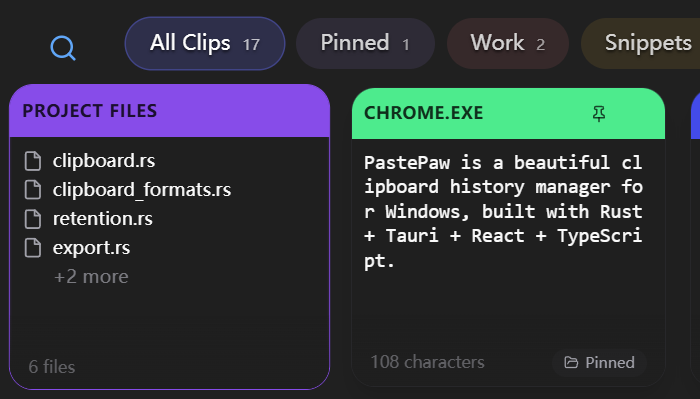
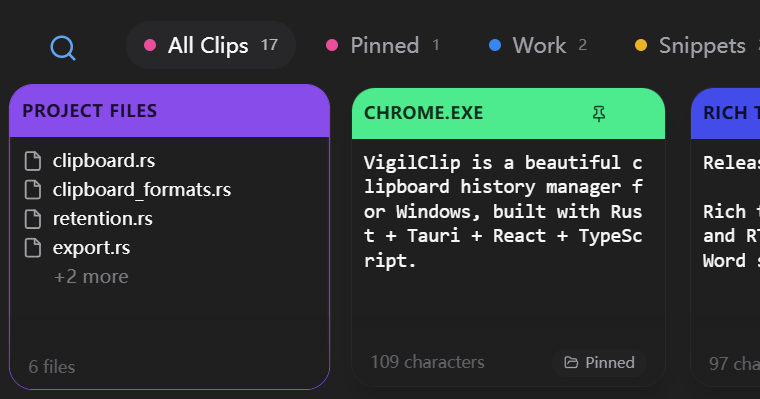
chore: release v2.0.0
The rename changes the identifier, the data directory, the repository and
the crate name, so this is a major version rather than a minor one.

The changelog folds in the note that updates are no longer installed by
the application, which had been sitting under Unreleased, and both
READMEs now describe what this build does rather than what v1.6.0 did.
The six feature screenshots were taken again from this build, so none of
them shows the old name or the old settings layout.

The demo data also gained folder colours, which is what the toolbar dots
in those screenshots show.

diff --git a/frontend/src/debug/demoData.ts b/frontend/src/debug/demoData.ts
@@ -43,7 +43,7 @@ export function generateDemoFolders(): FolderItem[] {
       id: DEMO_FOLDER_IDS.pinned,
       name: 'Pinned',
       icon: null,
-      color: null,
+      color: '#ec4899',
       is_system: true,
       item_count: 1,
     },
@@ -51,7 +51,7 @@ export function generateDemoFolders(): FolderItem[] {
       id: DEMO_FOLDER_IDS.work,
       name: 'Work',
       icon: null,
-      color: null,
+      color: '#3b82f6',
       is_system: false,
       item_count: 2,
     },
@@ -59,7 +59,7 @@ export function generateDemoFolders(): FolderItem[] {
       id: DEMO_FOLDER_IDS.snippets,
       name: 'Snippets',
       icon: null,
-      color: null,
+      color: '#eab308',
       is_system: false,
       item_count: 2,
     },
@@ -67,7 +67,7 @@ export function generateDemoFolders(): FolderItem[] {
       id: DEMO_FOLDER_IDS.design,
       name: 'Design',
       icon: null,
-      color: null,
+      color: '#8b5cf6',
       is_system: false,
       item_count: 1,
     },
@@ -117,12 +117,12 @@ export function generateDemoClips(): ClipboardItem[] {
       clip_type: 'text',
       // Rich text is stored as a text clip plus its HTML and RTF alternates, so the
       // card reads like any other text card. Pasting into Word keeps the formatting.
-      content: `Release notes for v1.6.0
+      content: `Release notes for v2.0.0
 
 Rich text keeps its HTML
 and RTF, so pasting into
 Word stays formatted.`,
-      preview: 'Release notes — VigilClip v1.6.0',
+      preview: 'Release notes — VigilClip v2.0.0',
       folder_id: null,
       created_at: ago(3),
       source_app: 'WINWORD.EXE',

diff --git a/CHANGELOG.md b/CHANGELOG.md
@@ -1,17 +1,45 @@
 # Changelog
 
-All notable changes to PastePaw will be documented in this file.
+All notable changes to VigilClip will be documented in this file.
 
-## Unreleased
+## v2.0.0
 
 ### Changed
-- **The application no longer installs its own updates.** The updater plugin pointed at the upstream repository and carried the upstream signing key, so a release published there would have been offered to this build and installed over it. PastePaw now reads the newest release of this repository, tells you when one exists, and opens the release page in your browser when you click the button.
+- **The application is called VigilClip now.** The bundle identifier, the executable, the data directory, the database file, the repository and every interface string changed with it. An existing install is carried over on the first start: the database, the stored images and the settings are moved into the new locations, and the old directory is renamed to `PastePaw.migrated` instead of being deleted.
+- **The settings window was rebuilt** around a narrow navigation column (General, Appearance, Behavior, Folders, Data, Privacy) with one row per setting, instead of the stacked cards it used to have.
+- **The application no longer installs its own updates.** The updater plugin pointed at the upstream repository and carried the upstream signing key, so a release published there would have been offered to this build and installed over it. VigilClip now reads the newest release of this repository, tells you when one exists, and opens its release page in your browser when you ask for it.
+- The folder filter in the toolbar reads as a coloured dot with a name rather than a coloured pill.
+
+### Added
+- **Folder colours**: a folder can be given one of ten colours when it is created and changed later from the settings; its dot shows that colour, and a folder without one keeps a colour derived from its name.
+- **Hover feedback** on clip cards: the card lifts and grows slightly, and stays still under the system "reduce motion" setting.
+- **Every installed font** is offered in the Interface Font and Clip Font pickers, and a font that is no longer installed still shows as the current value.
+- **A new icon set**: the stacked-card mark at every size Windows asks for, plus a light and a dark tray glyph.
+- The default language is Chinese; English is complete and the other languages fall back to it.
+
+### Fixed
+- The display size labels were hardcoded Chinese and ignored the chosen language.
+- Autostart is registered again after the rename when the setting says it should be running, so the checkbox and Windows agree.
 
 ### Removed
 - **Downloading and installing updates from inside the application**, together with the updater plugin, its signing key configuration and the signed updater artifacts that went with it. Nothing is downloaded or installed in the background.
 
 ### 修改
-- **不再由程序自己安装更新。** 原来的更新插件指向上游仓库并使用上游的签名密钥，上游一旦发版就会被提示并覆盖安装到本分支。现在 PastePaw 只读取本仓库的最新 Release，有新版时提示你，点击按钮后打开浏览器里的发布页面。
+- **程序更名为 VigilClip。** 包标识、可执行文件、数据目录、数据库文件、仓库地址与界面文案一并更换。旧版本的数据会在首次启动时迁移过来：数据库、图片与设置都搬到新位置，旧目录改名为 `PastePaw.migrated` 保留而不是删除。
+- **设置界面重做为**左侧窄导航（通用 / 外观 / 行为 / 文件夹 / 数据 / 隐私）+ 每项一行的形式，不再是原来的卡片堆叠。
+- **不再由程序自己安装更新。** 原来的更新插件指向上游仓库并使用上游的签名密钥，上游一旦发版就会被提示并覆盖安装到本分支。现在 VigilClip 只读取本仓库的最新 Release，有新版时提示你，点击后打开浏览器里的发布页面。
+- 工具栏的文件夹筛选改为彩色圆点加名字。
+
+### 新增
+- **文件夹颜色**：创建文件夹时可以从十种颜色里选一种，之后可在设置里修改；圆点显示该颜色，未设置颜色的文件夹仍按名字生成颜色。
+- **卡片悬停反馈**：卡片会略微抬起放大；系统开启“减少动态效果”时保持静止。
+- **字体列表**：界面字体与内容字体可选本机安装的所有字体，已卸载但仍在使用中的字体会作为当前值保留显示。
+- **全新图标**：Windows 需要的各种尺寸的堆叠卡片图标，以及浅色与深色两套托盘图形。
+- 默认语言为中文，英文已补全，其余语言回退到英文。
+
+### 修复
+- 显示大小（默认 / 紧凑）的文案原本写死为中文，现在跟随所选语言。
+- 更名后若开机自启处于开启状态，会重新登记启动项，避免设置与实际不一致。
 
 ### 移除
 - **应用内下载并安装更新**，同时移除更新插件、签名密钥配置以及相应的签名产物。后台不会下载或安装任何东西。

diff --git a/README.md b/README.md
@@ -27,7 +27,50 @@ A beautiful clipboard history manager for Windows, built with Rust + Tauri + Rea
 > [App Store](https://apps.apple.com/us/app/vigilclip/id6759132043?mt=12) — see
 > [vigilclip.com](https://vigilclip.com/). Both are GPL-3.0.
 
+## What's New in v2.0.0
+
+### 🪧 The application is called VigilClip
+
+The executable, the data directory, the database file name, the repository and every interface string
+changed with it. An existing install is carried over on the first start: the database, the stored
+images and the settings move into the new locations, and the old directory is renamed to
+`PastePaw.migrated` instead of being deleted, so nothing is lost if anything looks wrong afterwards.
+
+### 🎨 A rebuilt settings window
+
+The settings window was rebuilt around a narrow navigation column — General, Appearance, Behavior,
+Folders, Data, Privacy — with one row per setting, instead of the stacked cards it used to have.
+
+![History retention](docs/screenshot_win_retention.png)
+
+![Export and import](docs/screenshot_win_export.png)
+
+### 🔵 Folders have colours
+
+A folder can be given one of ten colours when it is created and changed later from the settings. The
+toolbar shows that colour as a dot next to the name, and a folder without one keeps a colour derived
+from its name so the bar never looks flat.
+
+![Type and source filters](docs/screenshot_win_filters.png)
+
+### 🔤 Every installed font
+
+The Interface Font and Clip Font pickers list every font installed on the machine rather than a short
+hardcoded list. A font that has since been uninstalled still shows as the current value instead of
+leaving the control blank.
+
+### 🖱 Hover feedback
+
+A clip card lifts and grows slightly under the pointer, and stays still when the system's
+"reduce motion" setting is on.
+
+### 🌏 Chinese by default, English complete
+
+The interface now starts in Chinese. English is complete, and German, French and Japanese fall back
+to English for the newest strings — as they always did for anything untranslated.
+
 ## What's New in v1.6.0
+
 
 v1.6.0 is the release that makes the clipboard store *formats*, not just text — and the one that
 makes three settings that never worked actually work.
@@ -60,8 +103,6 @@ transparent PNG pasted out with a **black background**. Images are now written f
 from an earlier version but **no code ever read them**, so history grew without bound in the
 database and on disk. Both are now applied, with built-in folders exempt.
 
-![History retention](docs/screenshot_win_retention.png)
-
 ### 📌 Pin with `P`
 
 `P` saves the selected clip into the built-in **Pinned** folder. The shortcut was documented in the
@@ -74,13 +115,9 @@ Export your folders to a single readable JSON file and import it on another mach
 merge on import, files are hashed so **importing the same file twice changes nothing**, and a clip
 whose image is missing on the target machine is kept and marked rather than dropped.
 
-![Export and import](docs/screenshot_win_export.png)
-
 ### 🗂 Type and source filters
 
 Narrow the list by content type (text / image / file) or by the application a clip came from.
-
-![Type and source filters](docs/screenshot_win_filters.png)
 
 ### 🏷 Custom titles and editing
 

diff --git a/README_CN.md b/README_CN.md
@@ -26,7 +26,43 @@
 > [App Store](https://apps.apple.com/us/app/vigilclip/id6759132043?mt=12) 上的 macOS 版本，
 > 详见 [vigilclip.com](https://vigilclip.com/)。两者均为 GPL-3.0。
 
+## v2.0.0 更新内容
+
+### 🪧 程序更名为 VigilClip
+
+可执行文件、数据目录、数据库文件名、仓库地址与界面文案一并更换。旧版本的数据会在首次启动时迁移：
+数据库、图片与设置都搬到新位置，旧目录改名为 `PastePaw.migrated` 保留而不是删除，之后发现问题也不会丢数据。
+
+### 🎨 设置界面重做
+
+设置窗口改为左侧窄导航（通用 / 外观 / 行为 / 文件夹 / 数据 / 隐私）+ 每项一行的形式，不再是原来的卡片堆叠。
+
+![历史保留](docs/screenshot_win_retention.png)
+
+![导出与导入](docs/screenshot_win_export.png)
+
+### 🔵 文件夹颜色
+
+创建文件夹时可以从十种颜色里选一种，之后可在设置里修改。工具栏用彩色圆点加名字显示；
+未设置颜色的文件夹仍按名字生成颜色，所以这一行始终保持有颜色。
+
+![类型与来源筛选](docs/screenshot_win_filters.png)
+
+### 🔤 本机所有字体
+
+界面字体与内容字体可选本机安装的所有字体，不再是写死的短列表；已卸载但仍在使用中的字体会作为当前值保留显示，
+不会让选择框变成空白。
+
+### 🖱 悬停反馈
+
+鼠标移到卡片上时卡片会略微抬起放大；系统开启“减少动态效果”时保持静止。
+
+### 🌏 默认中文，英文补全
+
+界面默认语言改为中文。英文已补全，德语、法语、日语中尚未翻译的新文案继续回退到英文。
+
 ## v1.6.0 更新内容
+
 
 v1.6.0 让剪贴板真正开始保存**格式**而不只是文本，并让三个「存在但从未生效」的设置真正起作用。
 
@@ -50,8 +86,6 @@ v1.6.0 让剪贴板真正开始保存**格式**而不只是文本，并让三个
 
 *可设定保留多少天、保留多少条。*这两个设置在早期版本的数据库里就存在，但**没有任何代码读取过它们**，导致数据库与磁盘上的历史无限增长。现在两者都已生效，内置文件夹不受限制。
 
-![历史保留](docs/screenshot_win_retention.png)
-
 ### 📌 按 `P` 收藏
 
 按 `P` 把选中的剪贴存入内置的 **收藏（Pinned）** 文件夹。这个快捷键在 README 与应用内文档里都写着，但从未接线——现在它能用了，而且文件夹内的内容豁免清理，与 Paste 的固定内容行为一致。
@@ -60,13 +94,9 @@ v1.6.0 让剪贴板真正开始保存**格式**而不只是文本，并让三个
 
 把文件夹导出为一个可读的 JSON 文件，在另一台设备导入。导入时同名文件夹合并；内容按哈希比对，**同一份文件导入两次不会产生任何变化**；目标机器上找不到图片文件的条目会保留并标记，而不是被丢弃。
 
-![导出与导入](docs/screenshot_win_export.png)
-
 ### 🗂 类型与来源筛选
 
 按内容类型（文本 / 图片 / 文件）或按剪贴的来源应用缩小列表。
-
-![类型与来源筛选](docs/screenshot_win_filters.png)
 
 ### 🏷 自定义标题与编辑内容
 
